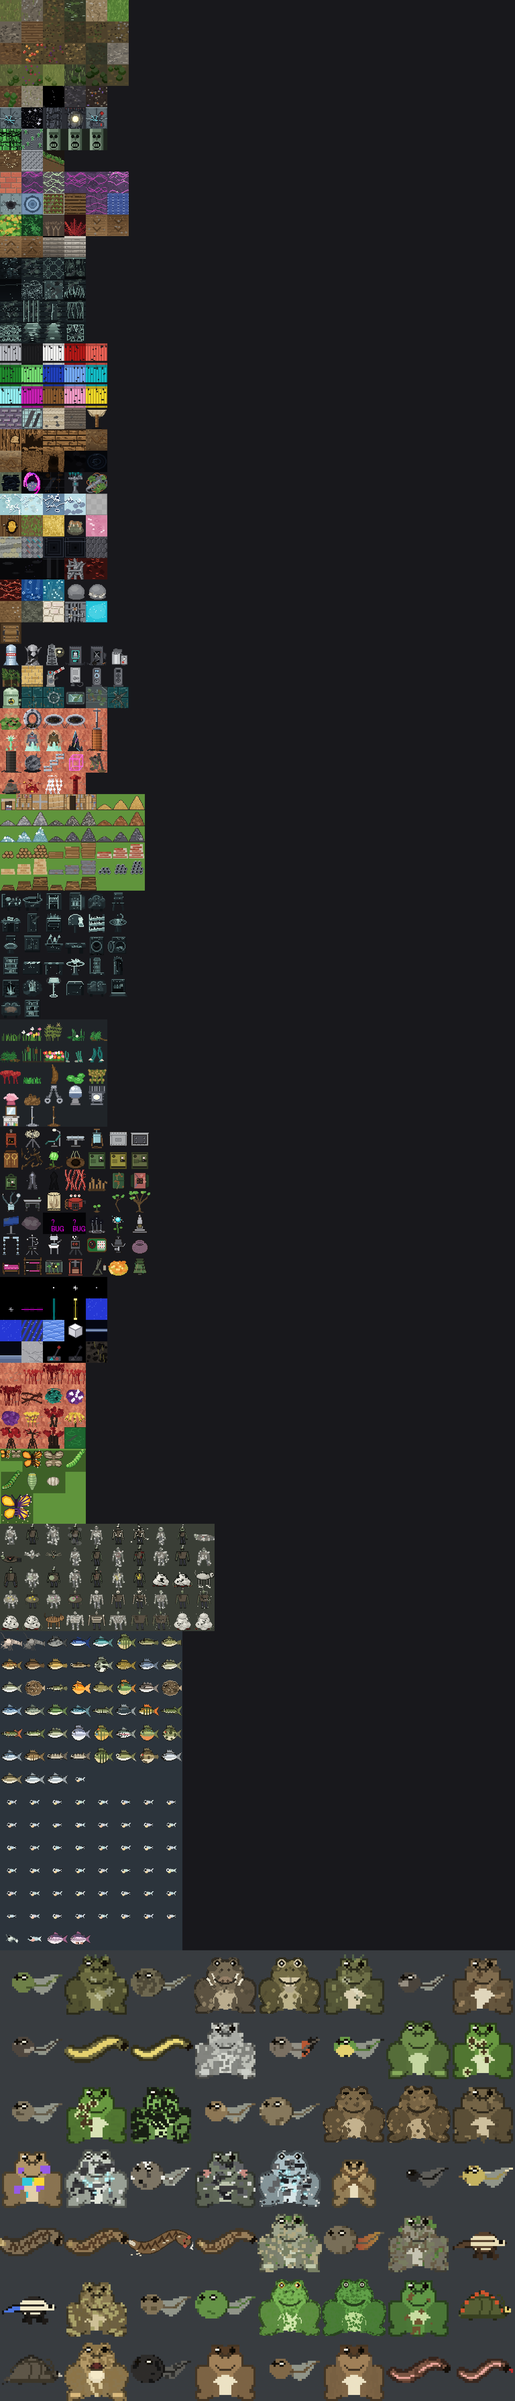
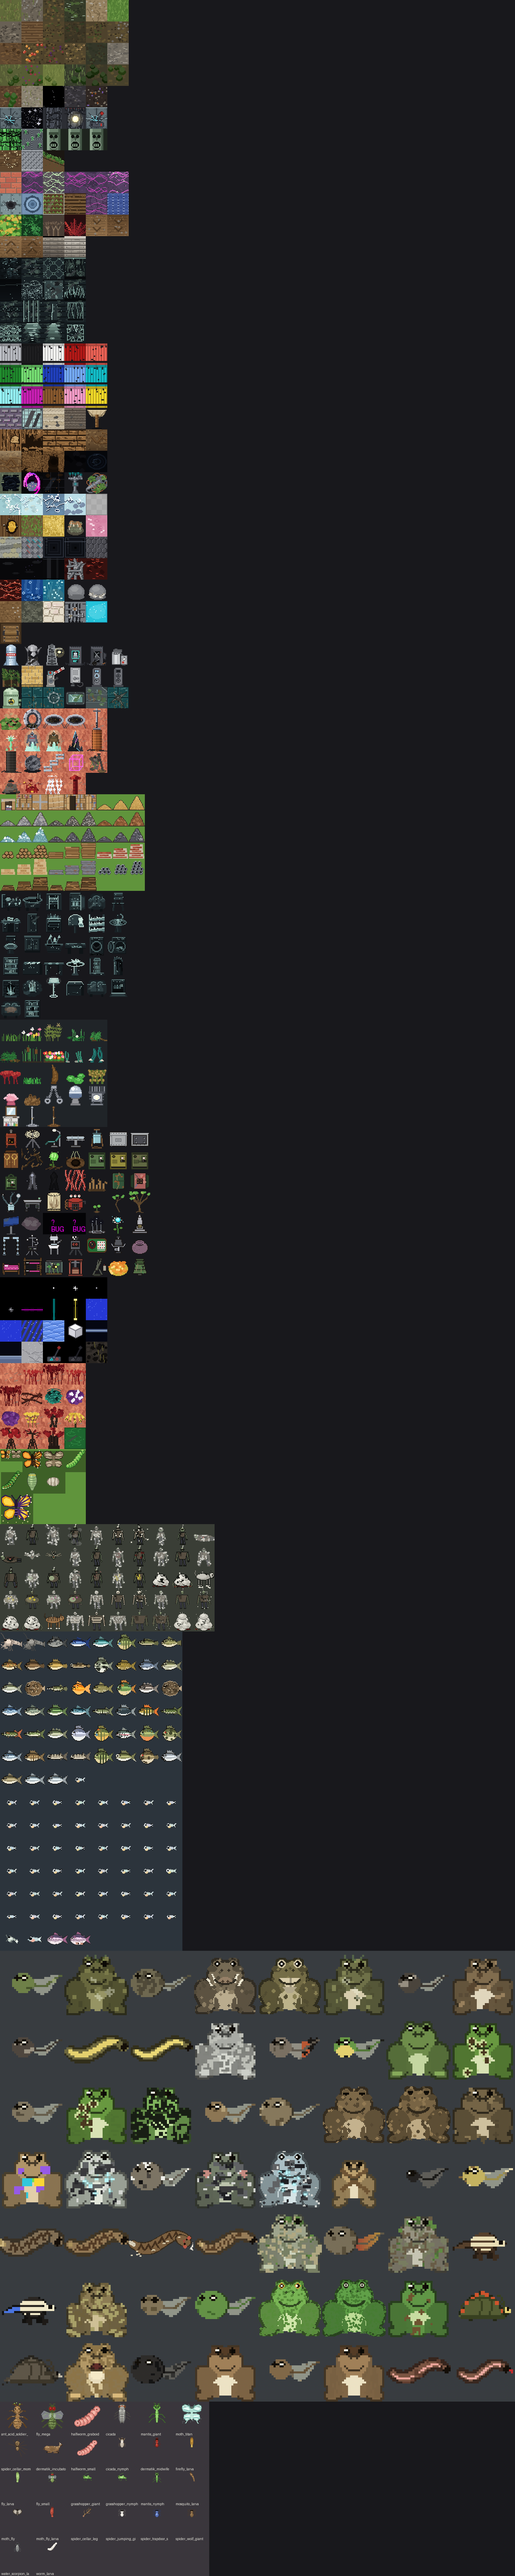
Coverage audit: record for 2g.4 batch 20

Changed region(s): [[0.0, 0.0, 1.0, 1.0]]

diff --git a/coverage-audit/REPORT.md b/coverage-audit/REPORT.md
@@ -588,6 +588,25 @@ workspace membership. Coverage movement (monster overlay,
 baseline 299 reproduced): 56 direct, no rescues — monsters
 missing **299 → 243**, coverage **79.8%** (960/1,203).
 
+## Created: insects & spiders (Phase 2g.4 batch 20, 2026-11-15)
+
+**All 26 missing ids in `insect_spider.json`** (the file's other
+missing ids were the already-drawn butterflies and moths): the
+625 L mega acid ant and mega fly at 96×96, the graboid halfworm,
+cicada with alpha-composited rooflike wings, giant mantis, the
+lunar moth titan with glittering dust, the cellar spider mother
+clutching a ball of ~46 individually drawn spiderlings, the
+dermatik's deer host (emaciated, ribs showing, terrified eye —
+the monster is the host body), and the larva/nymph/small-spider
+tail down to 0.8 L. `new-tiles/draw_insects.py`;
+`new-tiles/preview_insects.png`.
+
+Verified per the 2g.4 gate (parent re-run): **26 materials, all
+`exact`, 0 missing** (78 layers); every monster PNG on disk
+byte-identical across the re-run. Coverage movement (monster
+overlay, baseline 243 reproduced): 26 direct, no rescues —
+monsters missing **243 → 217**, coverage **82.0%** (986/1,203).
+
 ## Status
 
 Batches are committed locally as they land (butterfly/moth in

diff --git a/coverage-audit/new-tiles/README.md b/coverage-audit/new-tiles/README.md
@@ -26,6 +26,21 @@ All parent re-verified: voxelizer all-`exact`/0 missing,
 byte-identical re-runs, opacity checks clean, previews inspected.
 Furniture and monsters are the remaining drive.
 
+## Monster batch 20: insects & spiders (Phase 2g.4, 2026-11-15)
+
+**All 26 missing ids in `insect_spider.json`** — mega ant and
+mega fly at 96×96, graboid halfworm, cicada, giant mantis, lunar
+moth titan, the cellar spider mother with her spiderling ball,
+the dermatik deer host, and the larva/small-spider tail. Drawn by
+`draw_insects.py` (PIL, deterministic), placement by resolved
+volume.
+
+Verified: test-tileset run (prebuilt release voxelizer), **26
+materials, all `exact`, 0 missing** (78 layers); every monster
+PNG on disk byte-identical across the re-run, parent re-verified.
+`preview_insects.png` is the contact sheet. Coverage: monsters
+missing **243 → 217**, coverage **82.0%**.
+
 ## Monster batch 19: reptiles & amphibians (Phase 2g.4, 2026-11-15)
 
 **All 56 missing ids in `reptile_amphibian.json`** — snakes
